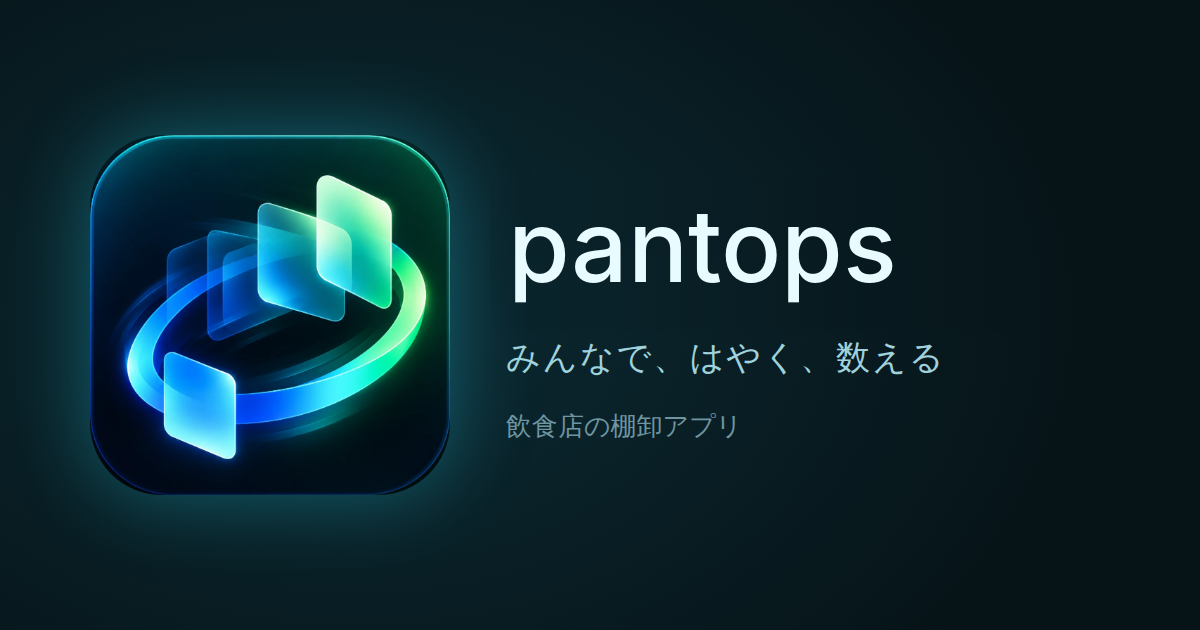
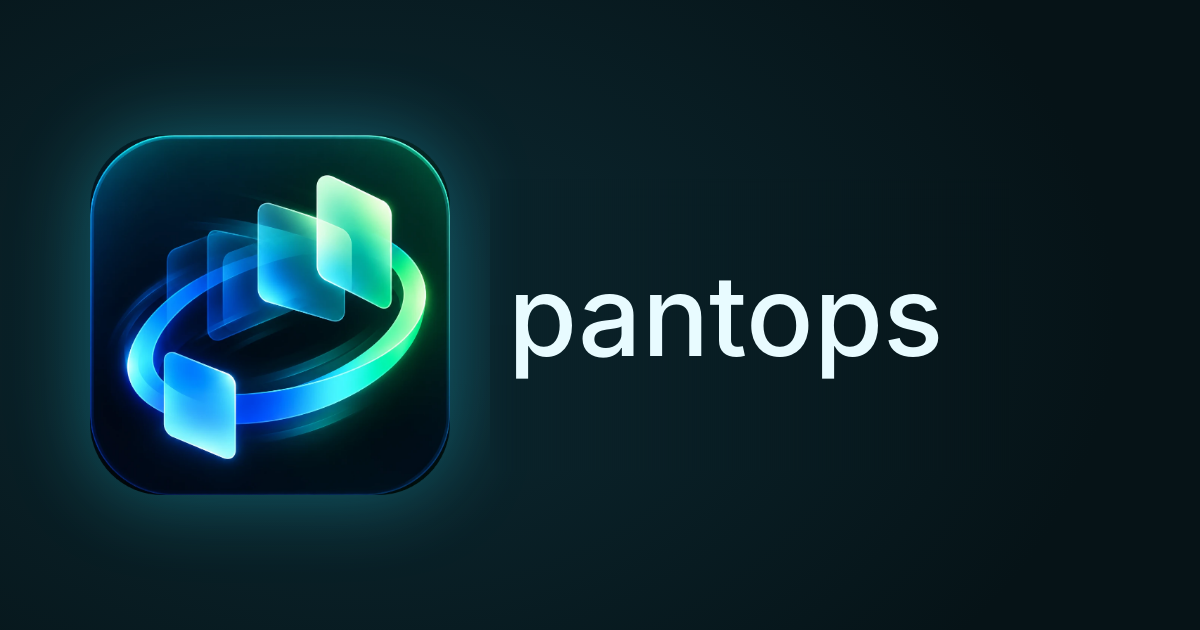
feat: キャッチコピーをいったん外し、説明を店舗オペレーションアプリに
Claude-Session: https://claude.ai/code/session_014RsRXjJi3czk5dAz1baiDV

Changed region(s): [[0.4008, 0.3317, 0.8017, 0.6032], [0.4008, 0.6635, 0.6167, 0.6937]]

diff --git a/app/index.html b/app/index.html
@@ -12,11 +12,11 @@
     <link rel="apple-touch-icon" href="apple-touch-icon.png" />
     <title>pantops</title>
     <!-- URL を LINE などで共有したときのカード（OGP）。%PUBLIC_ORIGIN% は build 時に配信先へ置き換わる（vite.config.js） -->
-    <meta name="description" content="みんなで、はやく、数える。飲食店の棚卸アプリ" />
+    <meta name="description" content="飲食店の店舗オペレーションアプリ（棚卸・発注・業務管理）" />
     <meta property="og:type" content="website" />
     <meta property="og:site_name" content="pantops" />
     <meta property="og:title" content="pantops" />
-    <meta property="og:description" content="みんなで、はやく、数える。飲食店の棚卸アプリ" />
+    <meta property="og:description" content="飲食店の店舗オペレーションアプリ（棚卸・発注・業務管理）" />
     <meta property="og:image" content="%PUBLIC_ORIGIN%/og-image.png" />
     <meta property="og:image:width" content="1200" />
     <meta property="og:image:height" content="630" />

diff --git a/landing/index.html b/landing/index.html
@@ -3,9 +3,9 @@
 <head>
   <meta charset="UTF-8" />
   <meta name="viewport" content="width=device-width, initial-scale=1.0" />
-  <title>pantops — 棚卸、もっとはやく。</title>
+  <title>pantops — 飲食店の店舗オペレーションアプリ（棚卸・発注・業務管理）</title>
   <meta name="description" content="飲食店の棚卸をスマホで完結。複数人同時入力・音声対応・即CSV出力。紙とペンから脱却しましょう。" />
-  <meta property="og:title" content="pantops — 棚卸、もっとはやく。" />
+  <meta property="og:title" content="pantops — 飲食店の店舗オペレーションアプリ（棚卸・発注・業務管理）" />
   <meta property="og:description" content="飲食店の棚卸をスマホで完結。複数人同時入力・音声対応・即CSV出力。" />
   <meta property="og:type" content="website" />
   <style>

diff --git a/app/src/appInfo.js b/app/src/appInfo.js
@@ -1,4 +1,5 @@
 // アプリの名前と一言（起動画面などで使う）。名前は将来変わる予定（User 2026-10-03）なので、
 // 新しく名前を出す画面はここを参照する。既存の画面・manifest・index.html の <title> は個別に直す必要がある。
 export const APP_NAME = 'pantops'
-export const APP_TAGLINE = 'みんなで、はやく、数える'
+// 一言はいったん無し（棚卸だけのアプリではなくなったため・User 2026-11-08）。決まったらここに入れる
+export const APP_TAGLINE = ''

diff --git a/app/vite.config.js b/app/vite.config.js
@@ -87,7 +87,7 @@ export default defineConfig({
       manifest: {
         name: 'pantops',
         short_name: 'pantops',
-        description: '飲食店の棚卸を音声でスピード入力。複数端末リアルタイム同期対応。',
+        description: '飲食店の店舗オペレーションアプリ（棚卸・発注・業務管理）。複数端末でリアルタイムに共有',
         theme_color: '#f6fafb',
         background_color: '#061317',
         display: 'standalone',

diff --git a/app/src/components/StartupSplash.vue b/app/src/components/StartupSplash.vue
@@ -112,7 +112,7 @@ onBeforeUnmount(() => { timers.forEach(clearTimeout) })
           :style="{ strokeDashoffset: 520 * (1 - shownProgress) }" />
       </svg>
     </div>
-    <div class="ss-name">{{ APP_NAME }}<small>{{ APP_TAGLINE }}</small></div>
+    <div class="ss-name">{{ APP_NAME }}<small v-if="APP_TAGLINE">{{ APP_TAGLINE }}</small></div>
   </div>
 </template>
 

diff --git a/docs/quality-foundation/sessions/2026-11-08-0553-tagline-off.md b/docs/quality-foundation/sessions/2026-11-08-0553-tagline-off.md
@@ -1,0 +1,9 @@
+# 2026-11-08 — 一言（キャッチコピー）をいったん外す・説明を店舗オペレーションに
+
+- version: 0.196.0 → **0.196.1**
+
+User: 「みんなで、はやく、数える」も変える。店舗オペレーションのアプリになりそう → 候補を出したが「いったんなしで」
+- `appInfo.js` の APP_TAGLINE を空に（起動画面は名前だけ）。og-image.png は名前だけに描き直し
+- 説明文: index.html の description/og:description、PWA manifest の description、landing の title/og:title を「飲食店の店舗オペレーションアプリ（棚卸・発注・業務管理）」に
+- 変えていない: landing の本文（「棚卸、もっとはやく。」の見出しなど棚卸中心の内容）、利用規約・プライバシー・サポートのサービス説明（「棚卸業務を支援するアプリ」）
+- 検証: app vitest 全件 pass、build OK
